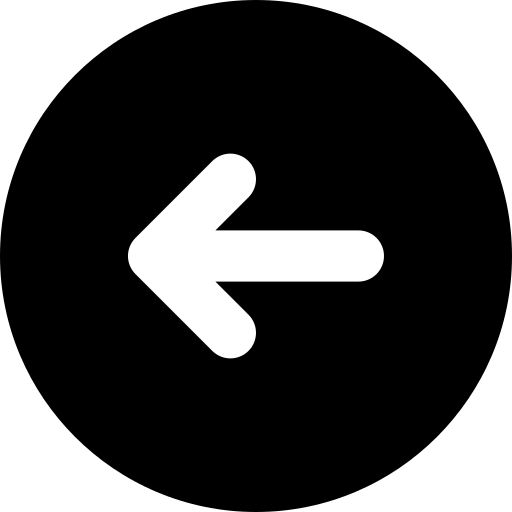
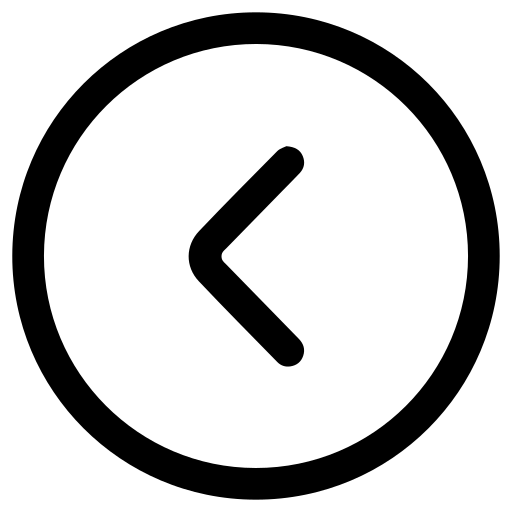
Small updates to the header, changing size and image.

diff --git a/frontend/src/components/Header.tsx b/frontend/src/components/Header.tsx
@@ -3,7 +3,7 @@ import backBtn from '../assets/left-arrow.png'
 
 function Header({ title }: { title: string }) {
     return <div className="header">
-        <img src={backBtn} className='backBtn' alt="back button" title="Icon by Lizel Arina - Flaticon" />
+        <img src={backBtn} className='backBtn' alt="back button" title="Icon by Riconsly - Flaticon - https://www.flaticon.com/free-icons/left-button" />
         <h1>{title}</h1>
     </div> 
 }

diff --git a/frontend/src/styles/header.css b/frontend/src/styles/header.css
@@ -2,9 +2,19 @@
     display: flex;
     flex-direction: row;
     border-bottom: 1px solid lightgrey;
+    padding-top: 20px;
+    padding-bottom: 20px;
+    padding-left: 2%;
+    gap: 10px;
+    margin-bottom: 20px;
+}
+
+.header * {
+    margin: 0px;
 }
 
 .backBtn {
-    width: 30px;
-    height: 30px;
+    width: 37px;
+    height: 37px;
+    cursor: pointer;
 }

diff --git a/frontend/src/styles/visualiser.css b/frontend/src/styles/visualiser.css
@@ -1,3 +1,7 @@
+body {
+    margin: 0px;
+}
+
 .container {
     display: flex;
     flex-direction: column;
